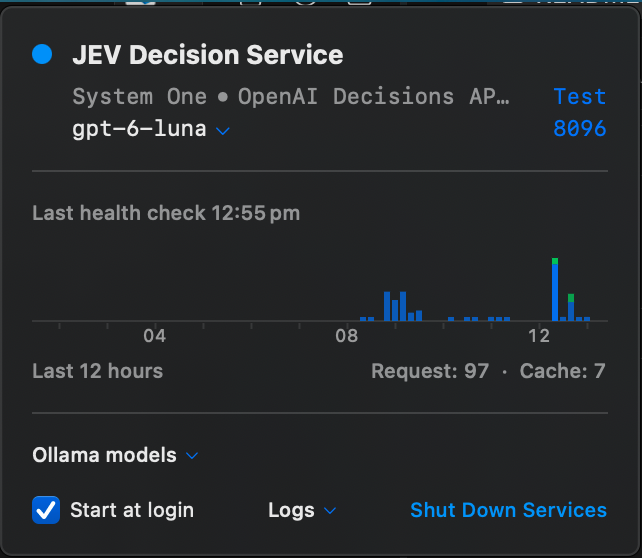
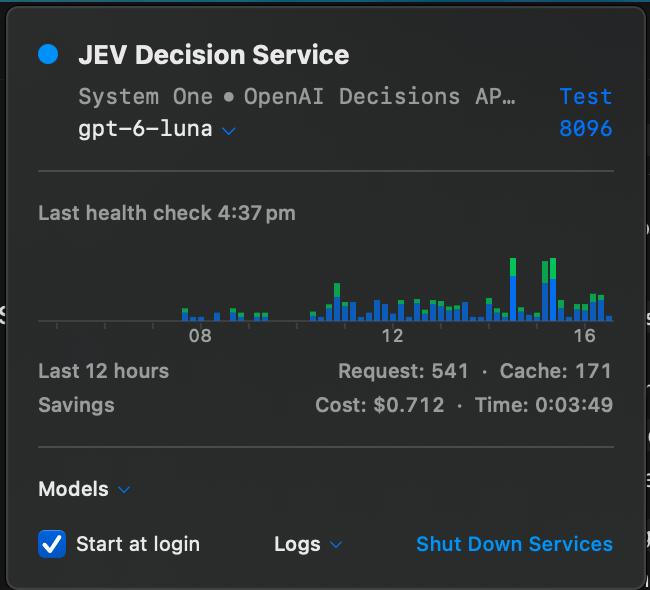
docs: change ticket and documentation for the decision cache, savings and rate card
Adds the 18 November change ticket (replay cache contract, avoided-cost
metrics, automatic housekeeping, backfill tools, rate card, savings line,
pricing correction, verification record), refreshes the README's
what's-new section with both new screenshots (menu with savings line,
grouped Models panel with rate card), updates the service-analytics
implementation map (cache_hit rows carry avoided spend; estimated flag;
rates.json), and indexes the ticket in the documentation index.

diff --git a/docs/tickets/2026-11-18-decision-cache-savings-and-rate-card.md b/docs/tickets/2026-11-18-decision-cache-savings-and-rate-card.md
@@ -1,0 +1,135 @@
+# Ticket: Decision replay cache, savings metrics, and the model rate card
+
+- **Date**: 2026-11-18
+- **Branch**: `main`
+- **Status**: implemented, deployed to the installed service, and verified live
+  (commits `d55d6a3`, `fc049f5`, `bbdf556`, `d910def`, `0ce9e49`)
+
+## Summary
+
+Lands a content-addressed **decision replay cache** in the gateway, automatic
+storage housekeeping for the analytics recorder, an **avoided-cost metrics**
+layer so every cache hit records what the live call would have spent (tokens
+and provider time), an editable **model rate card** in the menu-bar Models
+panel, a **Savings line** on the menu usage chart (`Cost: $… · Time: H:MM:SS`),
+and a one-off backfill that repairs history created before the metrics existed.
+Motivated by the 17 November usage audit: 36.6% of captured gateway bytes were
+byte-identical repeat requests, and the analytics DB carried ~281 MB of
+never-reclaimed free pages.
+
+## Changes
+
+### Decision replay cache (gateway)
+
+- `POST /v1/decision` requests are intercepted in the service layer
+  (`jev_service.py`): key = sha256 over the canonical request (instructions,
+  schema, contexts) + selected backend + cache version. A hit returns the
+  stored answer with `"cached": true` and `X-JEV-Cache: hit` without calling
+  the provider.
+- Entries live in `decision_cache` (same analytics SQLite): 14-day TTL,
+  10,000-row LRU cap, per-entry `hits` counter and `admitted_via` provenance
+  (`replay` / `bootstrap-luna`).
+- Errors, disconnects and incomplete responses are never cached. Any cache
+  fault falls through to the live path — cache failures cannot alter a
+  decision response. Kill switch `JEV_DECISION_CACHE=0`; per-request bypass
+  header `X-JEV-No-Cache: 1`.
+- Entries store the **avoided spend** of the originating live call: input
+  tokens, output tokens, and provider duration. Every `cache_hit` analytics
+  row carries those metrics plus the real model name, so savings are summable
+  from the `requests` table alone. `estimated=1` marks rows whose metrics are
+  byte-size estimates rather than exact recorded usage.
+
+### Automatic housekeeping (analytics recorder)
+
+- `PRAGMA auto_vacuum=INCREMENTAL` is set before the database header is
+  initialized; a one-time full `VACUUM` runs at startup past a 16 MB
+  free-list threshold; `incremental_vacuum` runs on every prune tick.
+- Captured request/response bodies are content-addressed (`payload_bodies`,
+  keyed by sha256): 37% of captured bytes were exact repeats. The first
+  offline backfill took the analytics DB from 408 MB to 93 MB.
+- Tools: `scripts/tools/export_answer_store.py` (bootstrap/refresh cache
+  entries from captured payloads), `backfill_payload_bodies.py` (one-time
+  dedupe + vacuum), `backfill_savings_estimates.py` (repair legacy entries and
+  hit rows), `ablate_batch_size.py` (batch-composition ablation).
+
+### Avoided-cost backfill
+
+- `export_answer_store.py` seeds cache entries from captured request/response
+  pairs and threads the originating rows' tokens/duration; re-running
+  refreshes metrics in place.
+- `backfill_savings_estimates.py` repairs history: recovers exact metrics for
+  entries whose originating call is uniquely identifiable, prices
+  unknown-model entries from their backend's profile model in `typesafe.json`
+  (`remote:openai-decisions-api` → `gpt-6-luna`), estimates legacy hit rows
+  from captured request size (~4 bytes/token) with the backend's mean live
+  duration, and marks all estimates `estimated=1`. First runs: 323 entries
+  seeded, 8 entries recovered exactly, 150 hit rows estimated.
+
+### Model rate card (menu bar)
+
+- New `RateCardStore` (`TypesafeAPI.swift`) persists
+  `~/Library/Application Support/JEV Menu Bar/rates.json` (outside `.secure` —
+  editable preferences, not credentials), seeded with published prices:
+  gpt-6-luna **$0.10 input / $0 output per MTok** — the Decisions API bills
+  input tokens only, unlike the Responses API's $0.10/$0.50 — and TypeSafe
+  models at the $0.042 reference rate.
+- The "Ollama models" popover is renamed **"Models"** and grouped:
+  **Ollama** rows are unchanged (checkbox, batch size, image input) and show
+  a static "Free"; a new **Service models** section lists every hosted
+  profile with editable "In $/M" and "Out $/M" fields (inline-binding
+  pattern, persisted on every edit). Panel widened 420→560. Batching
+  controls for service models are deliberately deferred.
+
+### Savings line (menu bar)
+
+- `UsageHistory.snapshot` now reads `outcome`, `model`, token counts and
+  `duration_ms`, pricing cache-hit rows against the rate card.
+- The usage chart gains a second footer row: left **Savings**, right-aligned
+  `Cost: $0.712 · Time: 0:03:49` (3-decimal dollars; sub-cent amounts gain
+  decimals instead of rounding to $0.000; time is H:MM:SS of avoided provider
+  time). Accessibility text reflects both figures.
+- Analytics portal: `cache_hit` added to the outcome filter and badge styles.
+
+### Pricing correction
+
+- First seed used the Responses API card for gpt-6-luna ($0.10/$0.50). The
+  deployment actually calls the **Decisions API**, which bills **input only**
+  ($0.10/MTok, cached $0.01, no output charges) per OpenAI's announcement and
+  pricing pages. Seed and installed `rates.json` corrected; recorded output
+  tokens were ~0, so prior savings figures were unaffected.
+
+## Verification
+
+- `python3 -m unittest tests.test_jev_analytics` — 67/67 green (cache
+  roundtrip with metrics, TTL/LRU eviction, hit-row avoided-spend assertions,
+  estimation fallback, vacuum reclaim, payload dedup).
+- Live: identical POST twice → first `complete`, second `cache_hit` with the
+  real model and the original call's tokens/duration; bypass header and kill
+  switch confirmed; entry-model repair confirmed in the store.
+- Post-repair window (12 h): 171 hits avoided 7,124,632 input tokens =
+  **$0.71** against $1.36 of live input spend — ~34%, matching the 171/532
+  hit share and the operator's expectation.
+- Menu verified by operator screenshot: `Request: 541 · Cache: 171` over
+  `Savings  Cost: $0.712 · Time: 0:03:49`, green hit bars stacked on live
+  bars, and the grouped Models panel with editable rates.
+
+## Known limits
+
+- Hits against entries created before the metrics columns existed are
+  byte-size estimates (`estimated=1`); exactness accrues as history ages out.
+- The rate card is list-price. The Decisions API's own prompt caching, batch
+  discounts and the operator's Codex quota can lower real spend below these
+  figures — the card is an intentionally conservative upper bound and is
+  editable.
+
+## Files
+
+- `scripts/jev_analytics.py`, `scripts/jev_service.py`
+- `scripts/tools/export_answer_store.py`, `backfill_payload_bodies.py`,
+  `backfill_savings_estimates.py`, `ablate_batch_size.py`
+- `Sources/JevMenuBar/TypesafeAPI.swift`, `main.swift`, `UsageHistory.swift`
+- `Resources/Web/analytics.html`
+- `tests/test_jev_analytics.py`
+- `docs/images/menubar-decision-service.png`, `docs/images/models-panel.png`
+- `README.md`, `docs/README.md`, `docs/service-analytics.md`
+- `docs/tickets/2026-11-18-decision-cache-savings-and-rate-card.md` (this ticket)

diff --git a/README.md b/README.md
@@ -25,18 +25,22 @@ cache hits (green) on live calls (blue).
 
 ![JEV Decision Service menu](docs/images/menubar-decision-service.png)
 
-## What's new — 17 November 2026
+## What's new — 17–18 November 2026
 
 | Area | Delivered behavior and evidence |
 | --- | --- |
-| Decision replay cache | Byte-identical `/v1/decision` requests are answered from a content-addressed local store (`decision_cache` in the analytics DB) before the backend is called: key = sha256(instructions + schema + contexts) + backend, 14-day TTL, 10k-row LRU cap. Hits return `"cached": true` with an `X-JEV-Cache: hit` header, are recorded as `cache_hit` analytics rows with zero tokens, and errors/disconnects are never cached. `X-JEV-No-Cache: 1` bypasses and does not populate; `JEV_DECISION_CACHE=0` disables. Seeded from 320 captured historical responses at install. |
+| Decision replay cache | Byte-identical `/v1/decision` requests are answered from a content-addressed local store (`decision_cache` in the analytics DB) before the backend is called: key = sha256(instructions + schema + contexts) + backend, 14-day TTL, 10k-row LRU cap. Hits return `"cached": true` with an `X-JEV-Cache: hit` header, are recorded as `cache_hit` analytics rows, and errors/disconnects are never cached. `X-JEV-No-Cache: 1` bypasses and does not populate; `JEV_DECISION_CACHE=0` disables. Seeded from captured historical responses at install. |
+| Avoided-cost metrics | Each cache entry stores what the originating live call spent (input/output tokens, provider duration); every `cache_hit` analytics row carries those metrics plus the real model name, so savings are summable from the `requests` table alone. Rows whose metrics are byte-size estimates carry `estimated=1`. |
 | Automatic housekeeping | The recorder sets `auto_vacuum=INCREMENTAL` at creation, runs a one-time full `VACUUM` at startup past a 16 MB free-list threshold, and `incremental_vacuum` on every prune tick — no manual maintenance. Payload bodies are content-addressed (`payload_bodies`): 37% of captured bytes were exact repeats, and the first backfill took the analytics DB from 408 MB to 93 MB. |
 | Batch-composition ablation | `scripts/tools/ablate_batch_size.py` replays a captured 64-candidate capability request as 10-candidate sub-batches and shuffled full batches, then reports per-candidate stability. Measured result: **64/64 candidates stable** — batch size and candidate order do not change this workload's answers, so full-size batches are trusted and single-model evidence is sufficient for cache admission. The report header records model/instruction/catalog fingerprints and warns when the ablation is stale. |
-| Menu-bar cache chart | The 12-hour usage pulse stacks cache hits in green on top of live calls in blue, and the caption reads `Request: N · Cache: M` (Request is the window total; Cache is how many of those the cache answered). |
+| Savings line and rate card | The menu usage chart stacks cache hits (green) on live calls (blue) and reports the 12-hour savings under the request counts: `Savings  Cost: $0.712 · Time: 0:03:49` (first 24 h: 171 hits avoided 7.1M input tokens ≈ a third of live spend). The **Models** panel (renamed from "Ollama models") groups Ollama rows (free, unchanged) and **Service models** with editable In/Out $-per-MTok fields persisted to `rates.json`; seeds use published prices — gpt-6-luna bills **input only** on the Decisions API ($0.10/MTok, no output charges), TypeSafe models at the $0.042 reference. |
 
-Tooling lives in `scripts/tools/`: `export_answer_store.py` (bootstrap the cache
-from captured responses), `backfill_payload_bodies.py` (one-time offline dedupe +
-vacuum), and `ablate_batch_size.py` (re-run when the model, rubric, or catalog
+![Models panel with rate card](docs/images/models-panel.png)
+
+Tooling lives in `scripts/tools/`: `export_answer_store.py` (bootstrap/refresh
+cache entries from captured responses), `backfill_payload_bodies.py` (one-time
+dedupe + vacuum), `backfill_savings_estimates.py` (repair legacy entries and
+hit rows), and `ablate_batch_size.py` (re-run when the model, rubric, or catalog
 changes — the tool says so itself).
 
 ## Recent changes — 8–15 October 2026
@@ -769,8 +773,15 @@ changing the captured metadata, API, storage or UI.
 The same store now backs the decision replay cache and maintains itself:
 `decision_cache` serves identical requests locally (visible in the portal as
 `cache_hit` outcomes and on the menu-bar chart), payload bodies are deduplicated
-by content hash, and freed pages are vacuumed automatically. `/api/analytics/health`
-reports the cache configuration, last vacuum, and storage limits.
+by content hash, and freed pages are vacuumed automatically. `cache_hit` rows
+record the **avoided** spend — the model, token counts and provider duration of
+the original live call — with `estimated=1` marking byte-size estimates; the
+per-model prices behind the savings figures live in the editable
+`~/Library/Application Support/JEV Menu Bar/rates.json`.
+`/api/analytics/health` reports the cache configuration, last vacuum, and
+storage limits. See the
+[18 November change ticket](docs/tickets/2026-11-18-decision-cache-savings-and-rate-card.md)
+for the full contract, backfill tools, and verification record.
 
 ## Agent capability selection
 

diff --git a/docs/service-analytics.md b/docs/service-analytics.md
@@ -236,11 +236,37 @@ pre-change SQLite online backup if needed.
 ## Menu bar usage pulse
 
 The menu bar app is a read-only consumer of this store: it reads
-`requests.started_at` for the last 12 hours (one row per decision call) and
-draws the pulse graph in the popover, refreshing every two minutes. It opens
-the database read-only, never writes recording state, and shows "usage history
-unavailable" when the store is missing or `JEV_ANALYTICS_ENABLED` is 0.
-Retention and row caps continue to govern what the pulse can show.
+`started_at`, `outcome`, `model`, token counts and `duration_ms` for the last
+12 hours (one row per decision call), draws the pulse graph in the popover —
+cache hits stacked in green on live calls in blue — and reports the window's
+`Request / Cache` counts plus a `Savings` line pricing the avoided tokens with
+the editable rate card (`~/Library/Application Support/JEV Menu Bar/rates.json`,
+dollars per million tokens). It refreshes every two minutes, opens the database
+read-only, never writes recording state, and shows "usage history unavailable"
+when the store is missing or `JEV_ANALYTICS_ENABLED` is 0. Retention and row
+caps continue to govern what the pulse can show.
+
+## Decision replay cache and savings metrics
+
+The service layer intercepts `/v1/decision` before the gateway core:
+byte-identical requests (key = sha256 of the canonical instructions, schema and
+contexts + selected backend + cache version) are answered from the
+`decision_cache` table without a provider call. Entries carry the avoided
+spend of the originating live call — `input_tokens`, `output_tokens`,
+`duration_ms` — plus `hits` and `admitted_via` provenance (`replay`,
+`bootstrap-luna`). Every cache hit writes a `requests` row with
+`outcome='cache_hit'` carrying the real model and those avoided metrics, so
+savings are summable from the requests table alone; `estimated=1` marks rows
+priced from request size (~4 bytes per token) rather than recorded usage.
+Errors, disconnects and incomplete responses are never cached, cache trouble
+always falls through to the live path, `X-JEV-No-Cache: 1` bypasses, and
+`JEV_DECISION_CACHE=0` disables the feature. Entries expire after 14 days or
+beyond 10,000 rows (LRU). The per-model prices live in `rates.json`, edited in
+the menu-bar Models panel; the recorded token counts are exact for entries
+created after 18 November 2026 and byte-size estimates for earlier ones.
+`scripts/tools/backfill_savings_estimates.py` repairs legacy entries and hit
+rows (gateway stopped); `export_answer_store.py` seeds and refreshes entries
+from captured payloads.
 
 ## Portal and API
 

diff --git a/docs/README.md b/docs/README.md
@@ -20,6 +20,7 @@ changes from 8–15 October.
 | Ticket | Use it for |
 | --- | --- |
 | [Menu bar overlays and usage pulse](tickets/2026-11-04-menubar-decision-overlays.md) | 4 November 2026 popover rework: usage pulse, overlay selectors, services toggle, Ollama selection pruning, with retro and verification. |
+| [Decision cache, savings and rate card](tickets/2026-11-18-decision-cache-savings-and-rate-card.md) | 17–18 November 2026: replay cache with avoided-cost metrics, automatic vacuum and payload dedup, editable model rate card, and the menu savings line, with backfill tools and verification. |
 
 The installed gateway is `http://127.0.0.1:8096`; its main pages are `/workbench`,
 `/benchmarks`, and `/analytics`. Any temporary development port shown in an older
